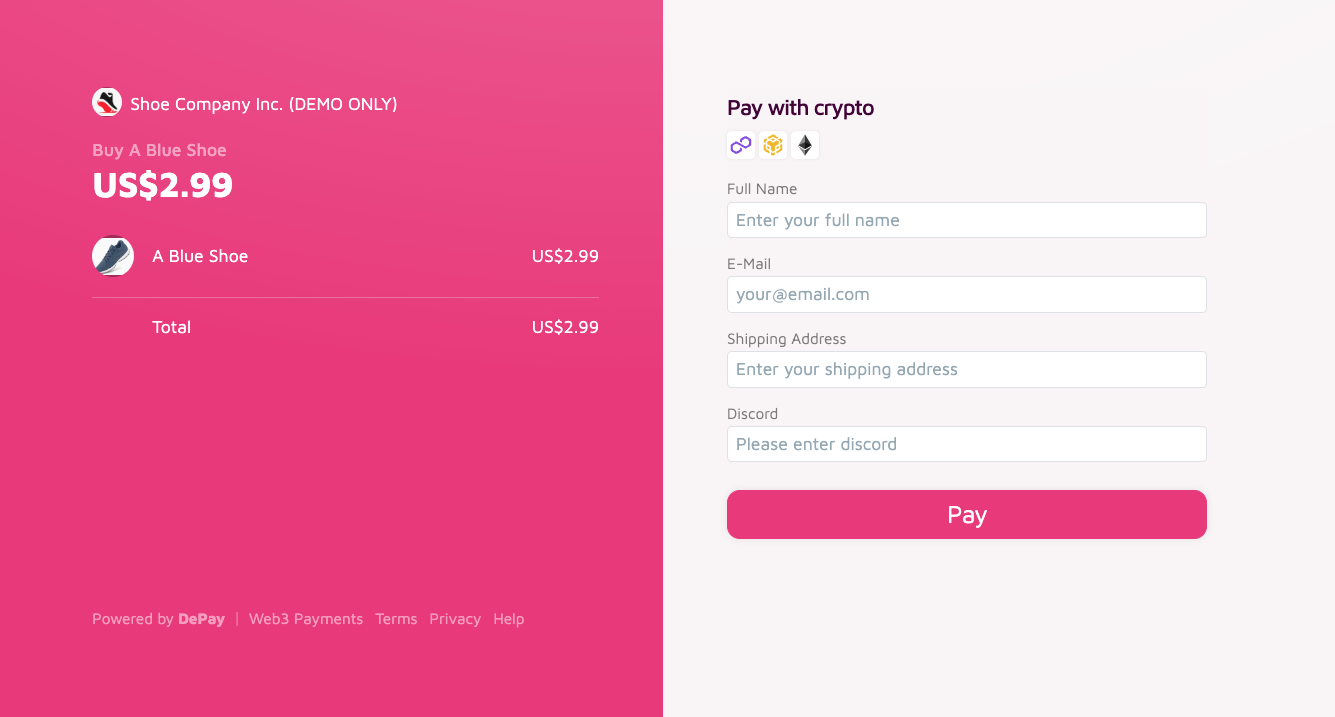
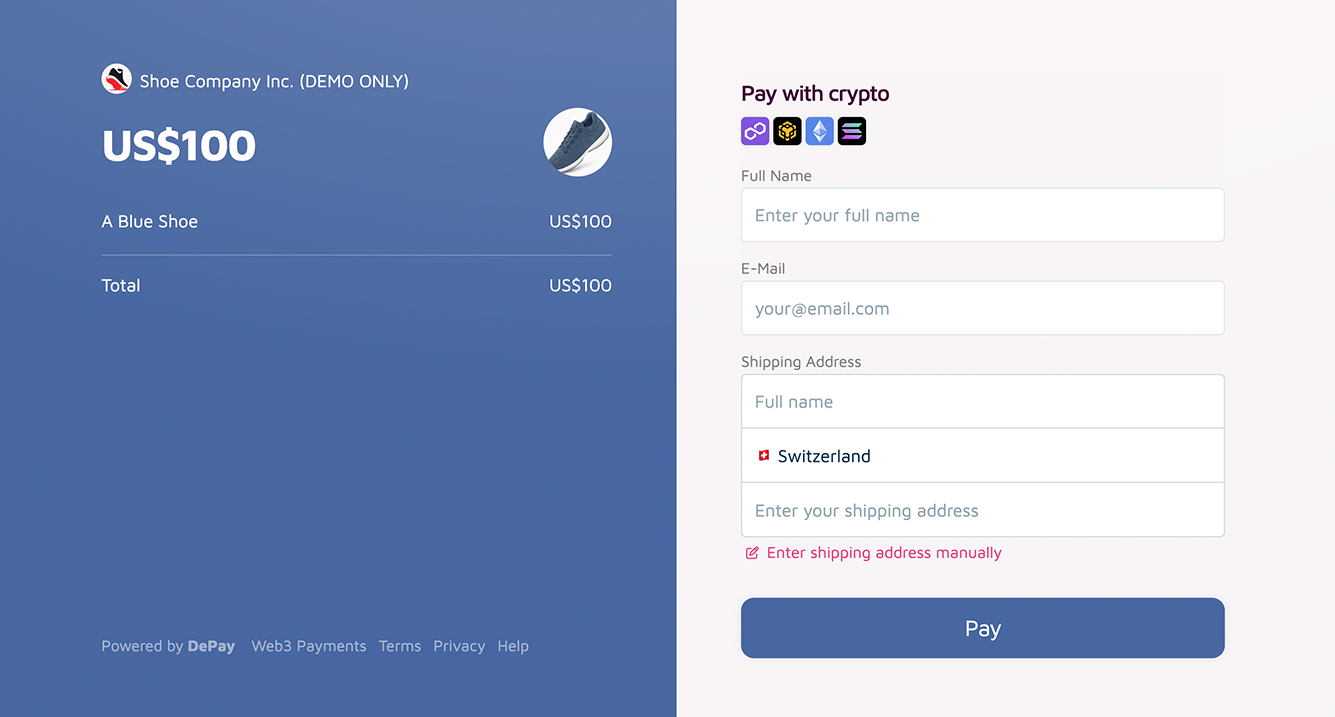
improve link documentation

diff --git a/docs/payments/integrate/link.md b/docs/payments/integrate/link.md
@@ -14,9 +14,13 @@ https://link.depay.com/201JapngwCukZzlvdZgR1K
 
 ### On Mobile
 
+DePay Payment Links on mobile are optimized for smaller screen sizes, ensuring a seamless user experience, and they conveniently integrate with mobile wallets, allowing customers to complete transactions with just a few taps.
+
 ![DePay Payment Link on Mobile](/img/examples/payment-link-mobile.png)
 
 ### On Desktop
+
+DePay Payment Links on desktop are designed to be visually stunning and highly intuitive, providing a straightforward payment process that boosts conversion rates. They seamlessly enable payments through crypto wallet browser extensions or by generating QR codes for easy handoff to other wallets and mobile devices.
 
 ![DePay Payment Link on Desktop](/img/examples/payment-link.png)
 
@@ -26,11 +30,17 @@ https://link.depay.com/201JapngwCukZzlvdZgR1K
 
 Go to the DePay App on https://app.depay.com and create a Payment Link via **Links** > **New Link** and select **Payment Link**.
 
-### Seller
+![Create new Payment Link](/img/examples/payment-links/create-new-payment-link.jpg)
 
-Enter a name for the seller in order to allow users to understand who they are paying.
+### Seller (Account)
 
-You can also upload an image to represent the seller visually.
+Your account name and logo will be displayed to customers as the visual identity of your brand.
+
+![Seller Account](/img/examples/payment-links/seller-account.jpg)
+
+To update your account name, brand color, or logo, navigate to **Account** > **Settings** > **Branding**.
+
+![Change branding](/img/examples/payment-links/change-branding.jpg)
 
 ### Product
 
@@ -38,13 +48,19 @@ Enter a name for the product in order to allow users to understand what they are
 
 You can also upload an image to represent the product visually.
 
+![Change branding](/img/examples/payment-links/product.jpg)
+
 ### Description
 
 Optionally, you can provide a description to clarify the specifics of the purchase.
 
-### Denomination
+![Description](/img/examples/payment-links/description.jpg)
+
+### Pricing
 
 You can denominate your product either in a fiat- or a crypto-currency.
+
+![Price in fiat currency](/img/examples/payment-links/price.jpg)
 
 #### Fiat Currency
 
@@ -70,19 +86,95 @@ Real-time conversion rates are calculated the moment a customer visits the link 
 > Once a customer visits the link to perform the payment that customer needs to pay you either **10 USDC** or **10 USDT**.
 > Conversions are also offered and calculated in real-time.
 
+![Amounts in crypto currencies](/img/examples/payment-links/crypto-currency-amounts.jpg)
+
+### Quantity
+
+You can enable customers to adjust the quantity, allowing them to purchase your product multiple times in a single transaction.
+
+![Adjust quantity](/img/examples/payment-links/adjust-quantity.jpg)
+
+Customers can then adjust the desired quantity themselves during checkout or payment.
+
+![Change quantity](/img/examples/payment-links/change-quantity.jpg)
+
+### VAT
+
+You can also enable the display of VAT on your payment links. You have the flexibility to configure the VAT rate yourself.
+
+:::info
+
+Make sure to set your account country in **Account** > **Settings** > **Billing** before activating the "Include VAT" option.
+
+:::
+
+![Enable VAT](/img/examples/payment-links/enable-vat.jpg)
+
+VAT will then be shown to customers located in the same country as the service provider.
+
+:::info
+
+Depending on your link configuration, the following factors will determine whether VAT is displayed:
+
+- If no address or country data collection is activated, the customer's location country, determined by IP, will be considered.
+
+- If shipping and billing data collection is activated, the customer's selected shipping address will be considered.
+
+- If billing data collection is activated, the customer's selected billing address will be considered.
+
+- If country data collection is activated, the customer's selected country will be considered.
+
+:::
+
+![Display VAT](/img/examples/payment-links/display-vat.jpg)
+
 ### Tokens
 
 Configure which tokens on which blockchains you want to receive as means of payment.
 
-Select as few tokens per blockchain as possible, but select at least 1 token per blockchain for every blockchain you want to support.
+:::caution
+
+We recommend to only configure 1 token per blockchain. Please ensure you select at least one token for each blockchain you intend to support for customers.
+
+:::
+
+:::info
+
+Configure only the tokens you wish to receive. With auto-conversion, your customers can seamlessly pay using thousands of different tokens, ensuring flexibility and convenience for every transaction.
+
+:::
+
+![Select tokens](/img/examples/payment-links/select-tokens.jpg)
 
 ### Receiver
 
-Enter the addresses that are supposed to receive the payments. One per token. You can use the same address for multiple tokens if that address supports receiving these tokens. Double-check the entered addresses, as an incorrect address can lead to a loss of payments.
+Enter the addresses that are supposed to receive the payments. One per token. You can use the same address for multiple tokens if that address supports receiving these tokens.
 
-### Branding/Colors
+:::caution
+
+Double-check the entered addresses, as an incorrect address can lead to a loss of payments.
+
+:::
+
+:::info
+
+You can also manage your wallets directly through your account settings (**Account** > **Settings** > **Wallets**), allowing you to select wallets easily without the need to paste addresses manually.
+
+:::
+
+![Payment receiver](/img/examples/payment-links/payment-receiver.jpg)
+
+### Branding & Colors
 
 You can select a primary color that will be used for the payment experience ensuring brand continuity throughout the payment experience.
+
+:::info
+
+Payment Links will automatically inherit the branding and color settings from your account, which you can configure in **Account** > **Settings** > **Branding**.
+
+:::
+
+![Branding colors](/img/examples/payment-links/branding-colors.jpg)
 
 ### Collect Data
 
@@ -90,16 +182,116 @@ Payment Links allow you to gather the following, additional information from you
 
 - Full Name
 - E-Mail
-- Shipping Address
-- Country
-- Quantity
+- Address
+  - Billing address only
+  - Shipping and billing address
+  - Country only
+- Custom Fields
+
+![Collect data](/img/examples/payment-links/collect-data.jpg)
+
+#### Payload
+
+Collected data entered during the payment is transported via the `payload` attribute of payments:
+
+```javascript
+{
+
+  "payload": {
+
+    "full_name": "Mister Smith",
+    "email": "test@example.com",
+    "shipping_address": "Mr. Peter\n738 S. Wentworth Street\nBronx, NY 10466\nUS",
+    "shipping_address_data": {
+      "full_name": "Mr. Peter",
+      "address_line_1": "738 S. Wentworth Street",
+      "postal_code": "NY 10466",
+      "city": "Bronx",
+      "state": "New York",
+      "country": "US"
+    },
+    "billing_address": "Mr. Peter\n738 S. Wentworth Street\nBronx, NY 10466\nUS",
+    "billing_address_data": {
+      "full_name": "Mr. Peter",
+      "address_line_1": "738 S. Wentworth Street",
+      "postal_code": "NY 10466",
+      "city": "Bronx",
+      "state": "New York",
+      "country": "US"
+    },
+    "quantity": 5,
+    "custom_values": [
+      { name: "Discord Name", value: "Ninja#123" },
+      { name: "Age", value: 18 }
+    ]
+
+  }
+}
+```
+
+#### Prefill Form Data
+
+If you select to "Collect Data" during [link creation](#create-new-link) you can prefill all form fields with passing get parameters:
+
+https://link.depay.com/201JapngwCukZzlvdZgR1K?name=Max%20Musterman&country=CH
+
+`name`: The full name of the payment sender.
+
+`email`: The email of the payment sender.
+
+`country`: The ISO 3166-1 alpha-2 country code of the payment sender.
+
+`quantity`: The preselected item quantity.
+
+#### Inject Payload Data
+
+You can append get parameters to the generated payment link in order to inject payload data which will become part of the [payment callback request](#callback-request).
+
+This e.g. allows you to track individual users or sessions by id throughout the payment flow.
+
+```
+https://link.depay.com/6KFBECVsokSt0UKOAug8CI?payload[user_id]=1234567
+```
+
+or multiple parameters
+
+```
+https://link.depay.com/6KFBECVsokSt0UKOAug8CI?payload[user_id]=1234567&payload[session_id]=89
+```
+
+Those values will reappear in the [payment callback request](#callback-request) in the following way:
+
+```javascript
+  {
+    "payload": {
+      "injected": {
+        "user_id": 1234567,
+        "session_id": 89
+      }
+    }
+  }
+```
+
+### Unlock Content
+
+You can store content that will only be displayed to customers after a successful payment, such as a link to additional pay-walled content.
+
+![Unlock content setup](/img/examples/payment-links/unlock-content-setup.jpg)
+
+Customers will be informed that content will be unlocked upon payment when they open the payment link.
+
+![Unlock content display before payment](/img/examples/payment-links/unlock-content-display-1.jpg)
+
+Once a customer completes a successful payment, the content or link will be displayed to them.
+
+![Unlock content display after payment](/img/examples/payment-links/unlock-content-display-2.jpg)
 
 ### User Flow
 
 Configure what is supposed to happen after a payment has been performed and validated succssfully:
 
-- Redirect users back to you
 - Show a payment confirmation without redirecting users back to you
+- Redirect users back to a website url you specify
 
 ### E-Mail Confirmations
 
@@ -108,7 +300,7 @@ You can configure Payment Links to automatically send payment confirmations per 
 - Send confirmation to your users
 - Send confirmation to yourself
 
-### Callback Request
+### Receive Callback Requests
 
 If your systems need to be informed about incoming payments (e.g. for automation) configure a callback request.
 
@@ -231,31 +423,6 @@ You can read up on how to verify RSA PSS signatures in other programming languag
 
 </Tabs>
 
-### Form Data
-
-Form data entered during the payment is transported via the `payload` attribute:
-
-```javascript
-{
-
-  "payload": {
-
-    "full_name": "Mister Smith",
-    "email": "test@example.com",
-    "shipping_address": "738 S. Wentworth Street, Bronx, NY 10466",
-    "billing_address": "738 S. Wentworth Street, Bronx, NY 10466",
-    "country": "US",
-    "quantity": 5,
-    "usd_value_received": 100.10,
-    "custom_values": [
-      { name: "Discord Name", value: "Ninja#123" },
-      { name: "Age", value: 18 }
-    ]
-
-  }
-}
-```
-
 ### Discounts
 
 You can add discounts to your payment link. 
@@ -293,49 +460,6 @@ Restrict the payment link to a predefined quantity of items, ensuring that purch
 Once you've provided all required information the app will generate a **Payment Link** that you can use.
 
 Send your users to the link in order to perform payments as configured.
-
-### Prefill Form Data
-
-If you select to "Collect Data" during [link creation](#create-new-link) you can prefill all form fields with passing get parameters:
-
-https://link.depay.com/201JapngwCukZzlvdZgR1K?name=Max%20Musterman&country=CH
-
-`name`: The full name of the payment sender.
-
-`email`: The email of the payment sender.
-
-`country`: The ISO 3166-1 alpha-2 country code of the payment sender.
-
-`quantity`: The preselected item quantity.
-
-### Inject Payload Data
-
-You can append get parameters to the generated payment link in order to inject payload data which will become part of the [payment callback request](#callback-request).
-
-This e.g. allows you to track individual users or sessions by id throughout the payment flow.
-
-```
-https://link.depay.com/6KFBECVsokSt0UKOAug8CI?payload[user_id]=1234567
-```
-
-or multiple parameters
-
-```
-https://link.depay.com/6KFBECVsokSt0UKOAug8CI?payload[user_id]=1234567&payload[session_id]=89
-```
-
-Those values will reappear in the [payment callback request](#callback-request) in the following way:
-
-```javascript
-  {
-    "payload": {
-      "injected": {
-        "user_id": 1234567,
-        "session_id": 89
-      }
-    }
-  }
-```
 
 ### Forward Parameters
 
